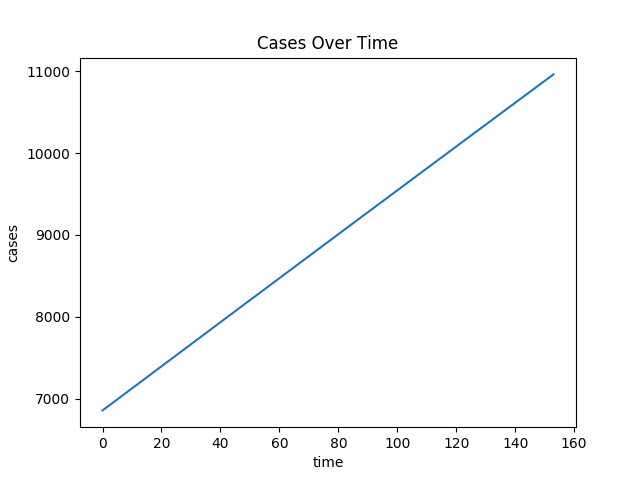
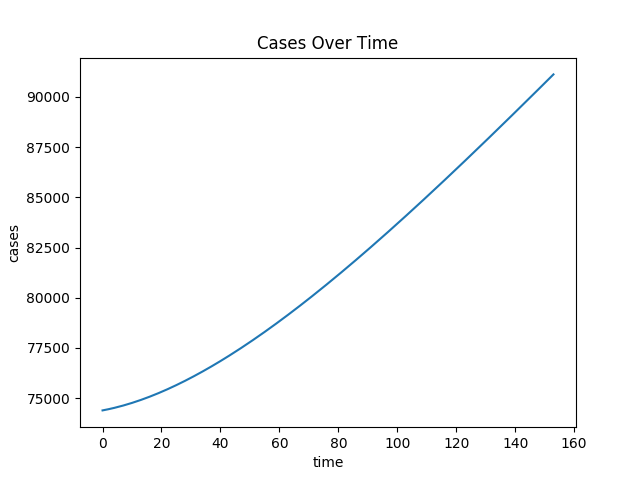
set paramaters

diff --git a/Examples/model.py b/Examples/model.py
@@ -184,19 +184,7 @@ def validate_params(param_dict, float_keys, int_keys, str_keys):
 
 def run_model(x, filename):
 
-    '''
-    file = open(filename, "r")
-    json_object = json.load(file)
-    file.close()
-
-    json_object["beta"] = list(x)
-        
-    print(f'{json_object} is type {type(json_object)}')
-
-    file = open(filename, "w")
-    json.dump(json_object, file)
-    file.close()
-    '''
+    
 
     pars = acquire_params(filename)
     # edit pars here
@@ -212,16 +200,19 @@ def run_model(x, filename):
     # try plotting here
 
     #print(r)
-    cases_per_day = r[:,2]
+    cases_reported = r[:,2]
 
-    return cases_per_day
+    return cases_reported
 
 def residuals(x, y, filename):
         """Calculates the residual error."""
         empirical_data = y
         #print(x)
         # call convert function
-        return empirical_data - run_model(x, filename)
+
+        ans = empirical_data - run_model(x, filename)
+        print(ans)
+        return ans
 
 def plot(data, outdir):
         time = np.arange(0, len(data))
@@ -239,7 +230,7 @@ def plot(data, outdir):
 
 def fit_to_data(data, filename):
         ##try to fit data
-        x0 = [.5]
+        x0 = [.1]
 
         '''
         # DEBUG
@@ -265,31 +256,26 @@ def main(opts):
 
     if opts['mode'] == 'single_run':
             
-        pop = get_population(opts['pop_file'])
-
-        file = open(opts['paramfile'], "r")
-        json_object = json.load(file)
-        file.close()
-
-        json_object["start_S"] = pop
         
-        file = open(opts['paramfile'], "w")
-        json.dump(json_object, file)
-        file.close()
 
         
         data = convert(opts['cases_file'])
 
         dates = data[:,0]
-        new_reported = data[:,3]
+        cases_reported = data[:,2]
 
-        ans = run_model(.5, opts['paramfile'])
-        print(ans)
+        #print(cases_reported)
 
-        ans2 = fit_to_data(list(new_reported), opts['paramfile'])
-        print(ans2)
+        model_ran = run_model(0.0000205, opts['paramfile'])
+        #print(model_ran)
 
-        plot(ans, "./outputs")
+        #print(ans)
+
+        fit_result = fit_to_data(list(cases_reported), opts['paramfile'])
+        assert fit_result.success, f"least_squares failed to converge: {fit_result}"
+        ans_with_fitted_beta = run_model(fit_result.x[0], opts['paramfile'])
+        print(fit_result.x)
+        plot(ans_with_fitted_beta, "./outputs")
 
         #plot(new_reported, "./outputs")
 
